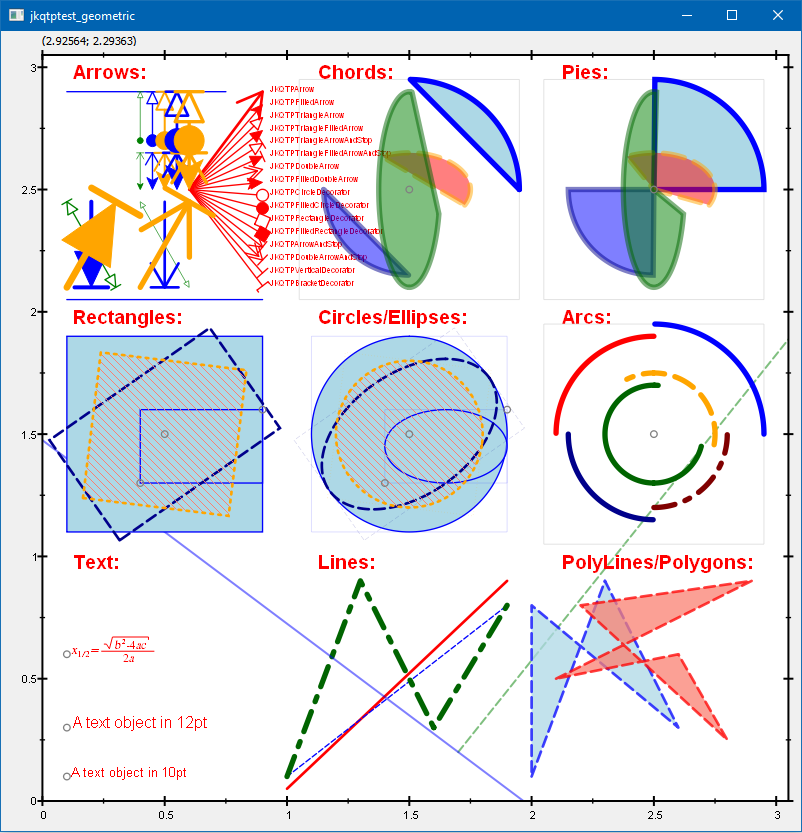
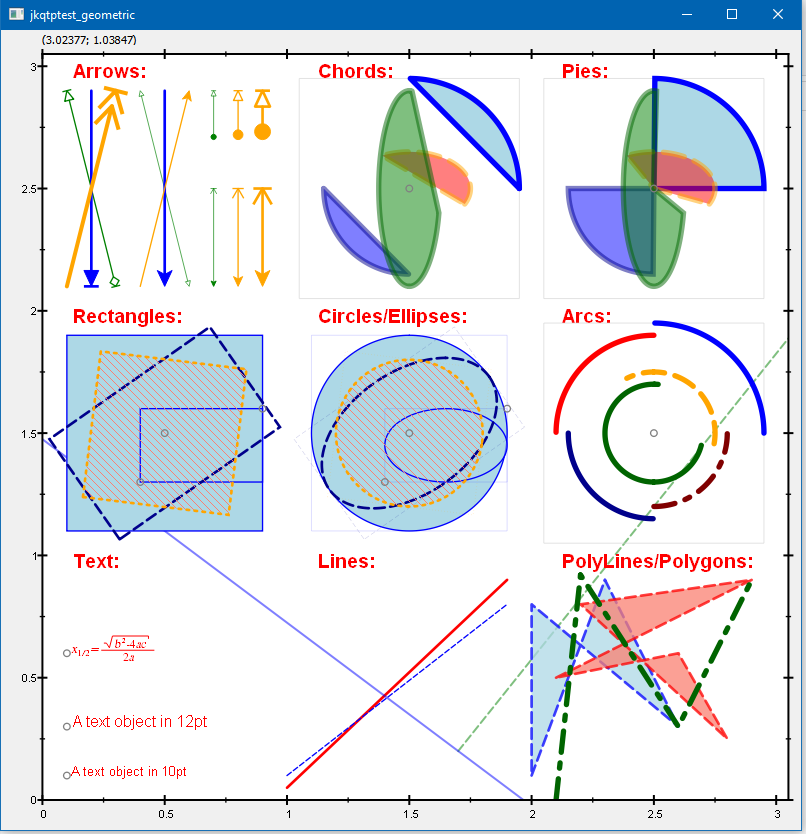
some fixes to documentation and geometry example

diff --git a/examples/geometric/geometric.cpp b/examples/geometric/geometric.cpp
@@ -40,13 +40,10 @@ int main(int argc, char* argv[])
     plot.addGraph(new JKQTPGeoSymbol(&plot, 0.1,0.6, JKQTPCircle, 5, QColor("grey")));
 
 
-    // 3.2 some lines elements (single lines and polylines)
+    // 3.2 some lines elements (single lines)
     plot.addGraph(new JKQTPGeoText(&plot, 1.1,0.95, "\\textbf{Lines:}", 14, QColor("red")));
     plot.addGraph(new JKQTPGeoLine(&plot, 1,  0.05, 1.9, 0.9, QColor("red"), 2));
     plot.addGraph(new JKQTPGeoLine(&plot, 1,  0.1, 1.9, 0.8, QColor("blue"), 1, Qt::PenStyle::DashLine));
-    QVector<QPointF> p;
-    p<<QPointF(1, 0.1)<<QPointF(1.3, 0.9)<<QPointF(1.6, 0.3)<<QPointF(1.9, 0.8);
-    plot.addGraph(new JKQTPGeoPolyLines(&plot, p, QColor("darkgreen"), 4, Qt::PenStyle::DashDotLine));
     JKQTPGeoInfiniteLine* infLine=new JKQTPGeoInfiniteLine(&plot, 1.7,  0.2, 0.2, 0.25, QColor("green"), 1.5, Qt::PenStyle::DashLine);
     infLine->setTwoSided(false);
     infLine->setAlpha(0.5);
@@ -129,7 +126,13 @@ int main(int argc, char* argv[])
     plot.addGraph(polygraph);
 
 
-    // 3.7 some arcs
+    // 3.7 a poly-line element
+    QVector<QPointF> p;
+    p<<QPointF(2.1, 0.0)<<QPointF(2.2, 0.92)<<QPointF(2.6, 0.3)<<QPointF(2.9, 0.9);
+    plot.addGraph(new JKQTPGeoPolyLines(&plot, p, QColor("darkgreen"), 4, Qt::PenStyle::DashDotLine));
+
+
+    // 3.8 some arcs
     plot.addGraph(new JKQTPGeoText(&plot, 2.1,1.95, "\\textbf{Arcs:}", 14, QColor("red")));
     plot.addGraph(new JKQTPGeoRectangle(&plot, 2.5,1.5,0.9,0.9, QColor("lightgrey"), 0.5, Qt::SolidLine));
     plot.addGraph(new JKQTPGeoArc(&plot,2.5,1.5,0.9,0.9, 0, 90 , QColor("blue"), 4, Qt::PenStyle::SolidLine));
@@ -141,7 +144,7 @@ int main(int argc, char* argv[])
     plot.addGraph(new JKQTPGeoSymbol(&plot, 2.5,1.5, JKQTPCircle, 5, QColor("grey")));
 
 
-    // 3.8 some pies
+    // 3.9 some pies
     plot.addGraph(new JKQTPGeoText(&plot, 2.1,2.95, "\\textbf{Pies:}", 14, QColor("red")));
     plot.addGraph(new JKQTPGeoRectangle(&plot, 2.5,2.5,0.9,0.9, QColor("lightgrey"), 0.5, Qt::SolidLine));
     JKQTPGeoPie* pie;
@@ -155,7 +158,7 @@ int main(int argc, char* argv[])
     plot.addGraph(new JKQTPGeoSymbol(&plot, 2.5,2.5, JKQTPCircle, 5, QColor("grey")));
 
 
-    // 3.9 some chords
+    // 3.10 some chords
     plot.addGraph(new JKQTPGeoText(&plot, 1.1,2.95, "\\textbf{Chords:}", 14, QColor("red")));
     plot.addGraph(new JKQTPGeoRectangle(&plot, 1.5,2.5,0.9,0.9, QColor("lightgrey"), 0.5, Qt::SolidLine));
     JKQTPGeoChord* chord;

diff --git a/lib/jkqtcommon/jkqtpmathtools.h b/lib/jkqtcommon/jkqtpmathtools.h
@@ -426,7 +426,7 @@ inline bool JKQTPIsOKFloat(T v) {
 /** \brief evaluates a gaussian propability density function
  * \ingroup jkqtptools_math_basic
  *
- * \f[ f(x,\mu, \sigma)=\frac{1}{\sqrt{2\pi\sigma^2}}\cdot\eJKQTPSTATISTICS_PIeft(-\frac{(x-\mu)^2}{2\sigma^2}\right)
+ * \f[ f(x,\mu, \sigma)=\frac{1}{\sqrt{2\pi\sigma^2}}\cdot\exp\left(-\frac{(x-\mu)^2}{2\sigma^2}\right) \f]
  */
 inline double jkqtp_gaussdist(double x, double mu=0.0, double sigma=1.0) {
     return exp(-0.5*jkqtp_sqr(x-mu)/jkqtp_sqr(sigma))/sqrt(2.0*JKQTPSTATISTICS_PI*sigma*sigma);

diff --git a/lib/jkqtcommon/jkqtpdrawingtools.h b/lib/jkqtcommon/jkqtpdrawingtools.h
@@ -292,6 +292,8 @@ JKQTCOMMON_LIB_EXPORT QVector<QPointF> JKQTPDrawEllipse(double x, double y, doub
     \param x x-coordinate of position the tooltip points to
     \param y y-coordinate of position the tooltip points to
     \param rect rectangle of the main tooltip area
+
+    \image html tooltiptool_example.png
 */
 template <class TPainter>
 inline void JKQTPDrawTooltip(TPainter& painter, double x, double y, const QRectF& rect);

diff --git a/examples/geometric/README.md b/examples/geometric/README.md
@@ -29,7 +29,7 @@ The source code of the main application can be found in  [`geometric.cpp`](https
     
     // a polyline
     QVector<QPointF> p;
-    p<<QPointF(1, 0.1)<<QPointF(1.3, 0.9)<<QPointF(1.6, 0.3)<<QPointF(1.9, 0.8);
+    p<<QPointF(2.1, 0.0)<<QPointF(2.2, 0.92)<<QPointF(2.6, 0.3)<<QPointF(2.9, 0.9);
     plot.addGraph(new JKQTPGeoPolyLines(&plot, p, QColor("darkgreen"), 4, Qt::PenStyle::DashDotLine));
 
     
@@ -44,16 +44,18 @@ The source code of the main application can be found in  [`geometric.cpp`](https
     // a rotated ellipse (rotated by 35 degrees):
     plot.addGraph(new JKQTPGeoEllipse(&plot, 0.5,1.5,0.8,0.5, 35, QColor("darkblue"), 2, Qt::DashLine));
 
+
     
     // a polygon
-    JKQTPGeoPolygon* polygraph=new JKQTPGeoPolygon(&plot, QColor("red"), 2, Qt::PenStyle::DashLine, QColor("salmon"));
-    polygraph->appendPoint(2.1, 0.5);
-    polygraph->appendPoint(2.9, 0.9);
-    polygraph->appendPoint(2.2, 0.8);
-    polygraph->appendPoint(2.8, 0.25);
-    polygraph->appendPoint(2.6, 0.6);
-    polygraph->setAlpha(0.75);
-    plot.addGraph(polygraph);
+    JKQTPGeoPolygon* polygongraph=new JKQTPGeoPolygon(&plot, QColor("red"), 2, Qt::PenStyle::DashLine, QColor("salmon"));
+    polygongraph->appendPoint(2.1, 0.5);
+    polygongraph->appendPoint(2.9, 0.9);
+    polygongraph->appendPoint(2.2, 0.8);
+    polygongraph->appendPoint(2.8, 0.25);
+    polygongraph->appendPoint(2.6, 0.6);
+    polygongraph->setAlpha(0.75);
+    plot.addGraph(polygongraph);
+	
 
     
     // an arc from an ellipse from -10 degrees to 117 degrees, centered at 2.5,1.5 and full axes of 0.5 and 0.5
